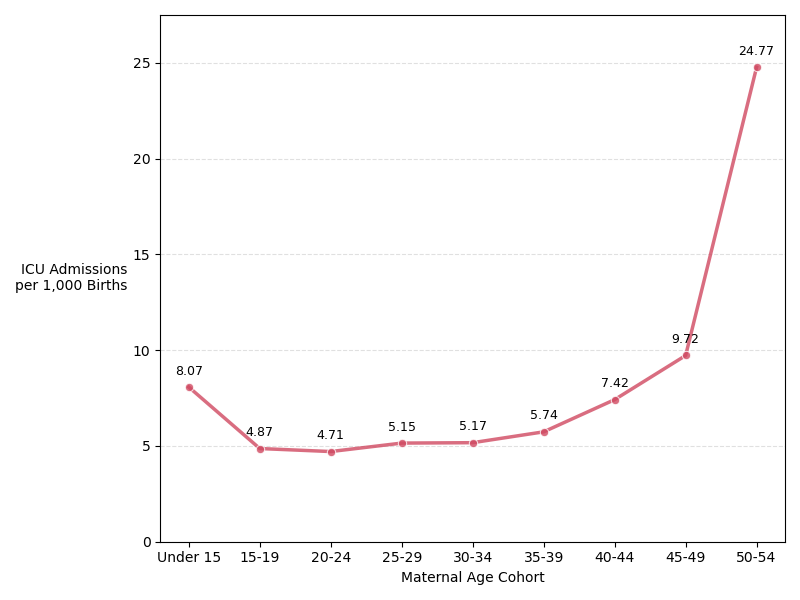
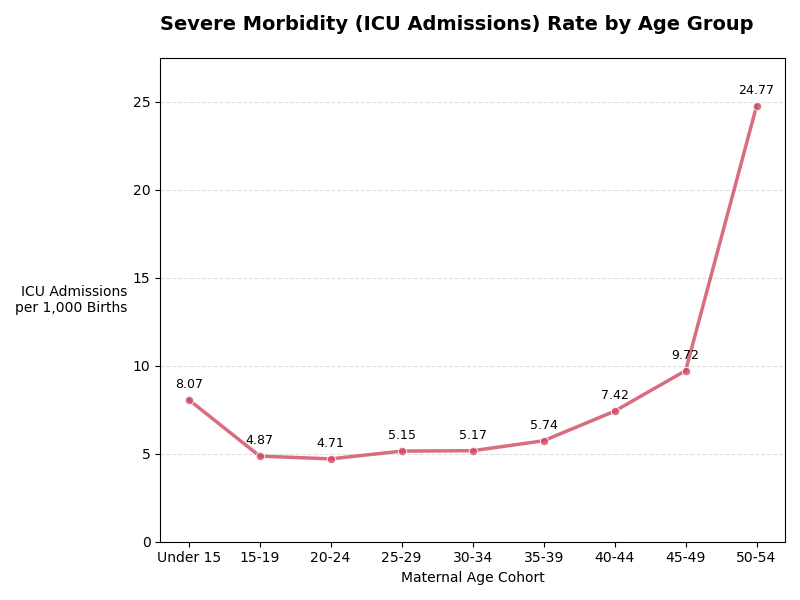
update birth visuals

diff --git a/src/app/app.py b/src/app/app.py
@@ -50,22 +50,41 @@ st.title("Exploring Maternal Health Outcomes in Relation to Healthcare Policy")
 st.markdown("---")
 
 # Initialize Tabs
-t1, t2, t3, t4 = st.tabs([
+t1, t2, t3, t4, t5 = st.tabs([
     "Introduction",
     "Conclusions",
     "Data Prep & EDA",          # add sub-tabs inside for each data source
-    "Models"                    # add sub-tabs inside for each model type
+    "Models",                   # add sub-tabs inside for each model type
+    "References"                # citations
 ])
 
+# if "active_tab" not in st.session_state:
+#     st.session_state['active_tab'] = 'Introduction'
+
+# tab_titles = ["Introduction", 'Conclusions', 'Data Prep & EDA', 'Models', 'References']
+# active_index = tab_titles.index(st.session_state['active_tab'])
+# tabs = st.tabs(tab_titles)
+
+# # The sidebar acts as your new tab switcher controller
+# selected_section = st.sidebar.radio("Navigation", tab_titles, index=active_index, key="nav_menu")
+
+# # Callback function for footnote buttons
+# def jump_to_ref():
+#     st.session_state['active_tab'] = 'References'
+
 # Infographic - Commonwealth Fund, Maternal Mortality Comparison (international)
-infogram_embed_html = """
+infogram_embed_html1 = """
 <div class="infogram-embed" data-id="80a84092-43ff-46f5-a159-5ec782d8f07b" data-type="interactive" data-title="Insights into the U.S. Maternal Mortality Crisis: An International Comparison: Exhibit 1"></div>
 <script>!function(e,n,i,s){var d="InfogramEmbeds";var o=e.getElementsByTagName(n)[0];if(window[d]&&window[d].initialized)window[d].process&&window[d].process();else if(!e.getElementById(i)){var r=e.createElement(n);r.async=1,r.id=i,r.src=s,o.parentNode.insertBefore(r,o)}}(document,"script","infogram-async","https://e.infogram.com/js/dist/embed-loader-min.js");</script>
 """
+infogram_embed_html2 = """
+<div class="infogram-embed" data-id="ef6762be-4964-4388-bac2-58cbb2d821ae" data-type="interactive" data-title="The U.S. Maternal Health Divide: The Limited Maternal Health Services and Worse Outcomes of States Proposing New Abortion Restrictions: Exhibit 4"></div>
+<script>!function(e,n,i,s){var d="InfogramEmbeds";var o=e.getElementsByTagName(n)[0];if(window[d]&&window[d].initialized)window[d].process&&window[d].process();else if(!e.getElementById(i)){var r=e.createElement(n);r.async=1,r.id=i,r.src=s,o.parentNode.insertBefore(r,o)}}(document,"script","infogram-async","https://e.infogram.com/js/dist/embed-loader-min.js");</script>
+"""
 
-###############################
-##### TAB 1: INTRODUCTION #####
-###############################
+##############################################################
+# TAB 1: INTRODUCTION
+##############################################################
 
 with t1:
     st.header("Introduction")
@@ -95,6 +114,17 @@ with t1:
              and maternal health outcomes, researchers can begin to quantify the real ramifications of restrictive abortion policies.
         """)
     
+    # Figure 1: Maternal Deaths, International Comparison
+    left_spacer, center_column, right_spacer = st.columns([1, 2, 1])
+    with center_column:
+        # Slightly lowered the height to 600px to match the reduced width proportions
+        st.iframe(src = infogram_embed_html1, height=600)
+        st.caption("""
+                   Figure 1: The Commonwealth Fund International Comparison of Maternal Deaths.
+                   The overall US maternal death rate (dark green) is 56 percent higher than that of Chile, the developed nation
+                   with the second-highest incidence of maternal death, and over 300 percent higher than that of the United Kingdom.
+                """)
+    
     st.subheader("Research Significance")
     st.write("""
             Examining the direct correlation between restrictive healthcare policies and maternal health outcomes is critically 
@@ -109,7 +139,7 @@ with t1:
              routine prenatal care and leading to higher rates of low-birth-weight infants and preterm births. 
              The economic and psychological strains placed on individuals forced to carry unintended pregnancies to term, 
              or travel thousands of miles across state lines for care, introduce significant socioeconomic stressors that 
-             undermine long-term household and community stability. 
+             undermine long-term household and community stability.<sup><b>[1]</b></sup>
              Additionally, the chilling effect on medical education and physician recruitment in states with
               severe criminal penalties for doctors threatens to destabilize the broader OB/GYN and pediatric healthcare
               workforce for decades to come. Quantitative data analysis provides an objective framework to move past polarized 
@@ -117,15 +147,17 @@ with t1:
              tangible medical outcomes. By aligning longitudinal datasets tracking policy status—such as total bans,
               heartbeat bans, and protections—with public health records covering infant birth metrics and 
              emergency room utilization, this study establishes a clear, data-driven narrative.
-        """)
+        """, unsafe_allow_html=True)
     
-    # Add figure(s) here, each should have 2 sentence caption/explanation
+    # Figure 2: 
     left_spacer, center_column, right_spacer = st.columns([1, 2, 1])
     with center_column:
         # Slightly lowered the height to 600px to match the reduced width proportions
-        # components.html(infogram_embed_html, height=600, scrolling=False)
-        st.iframe(src = infogram_embed_html, height=600)
-        st.caption("The Commonwealth Fund International Comparison")
+        st.iframe(src = infogram_embed_html2, height=520)
+        st.caption("""
+                   Figure 2: The Commonwealth Fund National Comparison of Maternal Deaths by Abortion-Access Status.
+                   There is a clear pattern of increased maternal death rates for abortion-restricted states.
+                """)
 
     # Research Qs
     st.subheader("Research Questions")
@@ -143,14 +175,14 @@ with t1:
                     6. Do clusters reliably predict disparities in maternal health outcomes?
                     7. What policy features are linked to a decline in rural reproductive healthcare infrastructure?
                     8. How did the 1973 decision in *Roe v. Wade* impact reproductive infrastructure usage and maternal health outcomes?
-                    9. How did the 2022 decision in *Dobbs v. Jackson* impact reproductive infrastructure usage and maternal health outcomes?
-                    10. How did the 1992 decision in *Planned Parenthood v. Casey* impact abortion restrictions and maternal health outcomes?    
+                    9. How did the 1992 decision in *Planned Parenthood v. Casey* impact abortion restrictions and maternal health outcomes?
+                    10. How did the 2022 decision in *Dobbs v. Jackson* impact reproductive infrastructure usage and maternal health outcomes?
                 """)
         
 
-###############################
-#### TAB 3: DATA PREP, EDA ####
-###############################
+##############################################################
+# TAB 3: DATA SOURCES, EDA
+##############################################################
 
 @st.cache_data
 def load_project_data():
@@ -544,9 +576,9 @@ with t3:
             data_link="https://github.com/amberteetsel/maternal-health/blob/cebd0bc60d68f180778fcbd9e47e027b2fd5df7a/data/raw/NCHS-Birth/births2024_raw.txt"
         )
 
-###############################
-######## TAB 4: MODELS ########
-###############################
+##############################################################
+# TAB 4: MODELS
+##############################################################
 
 with t4:
     st.header("Modeling Results")
@@ -560,3 +592,59 @@ with t4:
         "Regression",
         "Neural Networks"
     ])
+
+##############################################################
+# TAB 5: REFERENCES
+##############################################################
+
+from references import raw_citations
+sorted_citations = sorted(raw_citations, key=lambda x: x['footnote'])
+
+with t5:
+    st.header("References")
+    st.markdown("---")
+
+    # CSS styles
+    st.markdown(
+        """
+        <style>
+            .footnote-container {
+                display: flex;
+                align-items: flex-start;
+                margin-bottom: 22px;
+                font-family: 'Roboto', sans-serif;
+                font-size: 14.5px;
+                line-height: 1.6;
+            }
+            .footnote-number {
+                min-width: 32px;
+                font-weight: bold;
+                color: #b44391; /* Matches your 'flare' palette index [4] color */
+            }
+            .footnote-body {
+                flex-grow: 1;
+                padding-left: 4px;
+                text-indent: -24px; /* Creates clean secondary alignment hanging indent */
+                margin-left: 24px;
+            }
+        </style>
+        """,
+        unsafe_allow_html=True
+    )
+
+    for cite in sorted_citations:
+        # Safely extract dynamic volume details if they are declared in the map
+        details_str = f", {cite['details']}." if cite['details'] else "."
+        
+        html_block = f"""
+        <div class="footnote-container">
+            <div class="footnote-number">[{cite['footnote']}]</div>
+            <div class="footnote-body">
+                {cite['authors']} ({cite['year']}). {cite['title']} 
+                <i>{cite['publication']}</i>{details_str} 
+                <a href="{cite['url']}" target="_blank">{cite['url']}</a>
+            </div>
+        </div>
+        """
+        st.markdown(html_block, unsafe_allow_html=True)
+

diff --git a/src/cleaning/birth_cleaning.py b/src/cleaning/birth_cleaning.py
@@ -200,6 +200,15 @@ for bar, label in zip(ax.patches, clean_labels):
 ax.set_xlabel("Maternal Age Cohort")
 ax.set_ylabel("Live Birth\nVolume", rotation=0, va='center', ha='right')
 
+ax.set_title(
+    "Total Births by Age Group (2024)", 
+    loc='left', 
+    fontsize=14, 
+    fontweight='bold', 
+    pad=22,
+    # color="#111111"
+)
+
 # horizontal x axis labels
 plt.xticks(rotation=0)
 fig.tight_layout()
@@ -249,6 +258,14 @@ for i, row in icu_rate.iterrows():
 
 ax.set_xlabel("Maternal Age Cohort")
 ax.set_ylabel("ICU Admissions\nper 1,000 Births", rotation=0, va='center', ha='right')
+
+ax.set_title(
+    "Severe Morbidity (ICU Admissions) Rate by Age Group", 
+    loc='left', 
+    fontsize=14, 
+    fontweight='bold', 
+    pad=20
+)
 
 plt.xticks(rotation=0)
 fig.tight_layout()

diff --git a/src/app/references.py b/src/app/references.py
@@ -1,0 +1,13 @@
+import streamlit as st
+
+raw_citations = [
+    {
+        "footnote": 1,  # Tied to your Introduction Section text
+        "authors": "Jung, C., Oviedo, J., Nippita, S.",
+        "year": "2023",
+        "title": "Abortion Care in the United States — Current Evidence and Future Directions",
+        "publication": "The New England Journal of Medicine Evidence",
+        "details": "2(4)",
+        "url": "https://doi.org/10.1056/EVIDra2200300"
+    }
+]